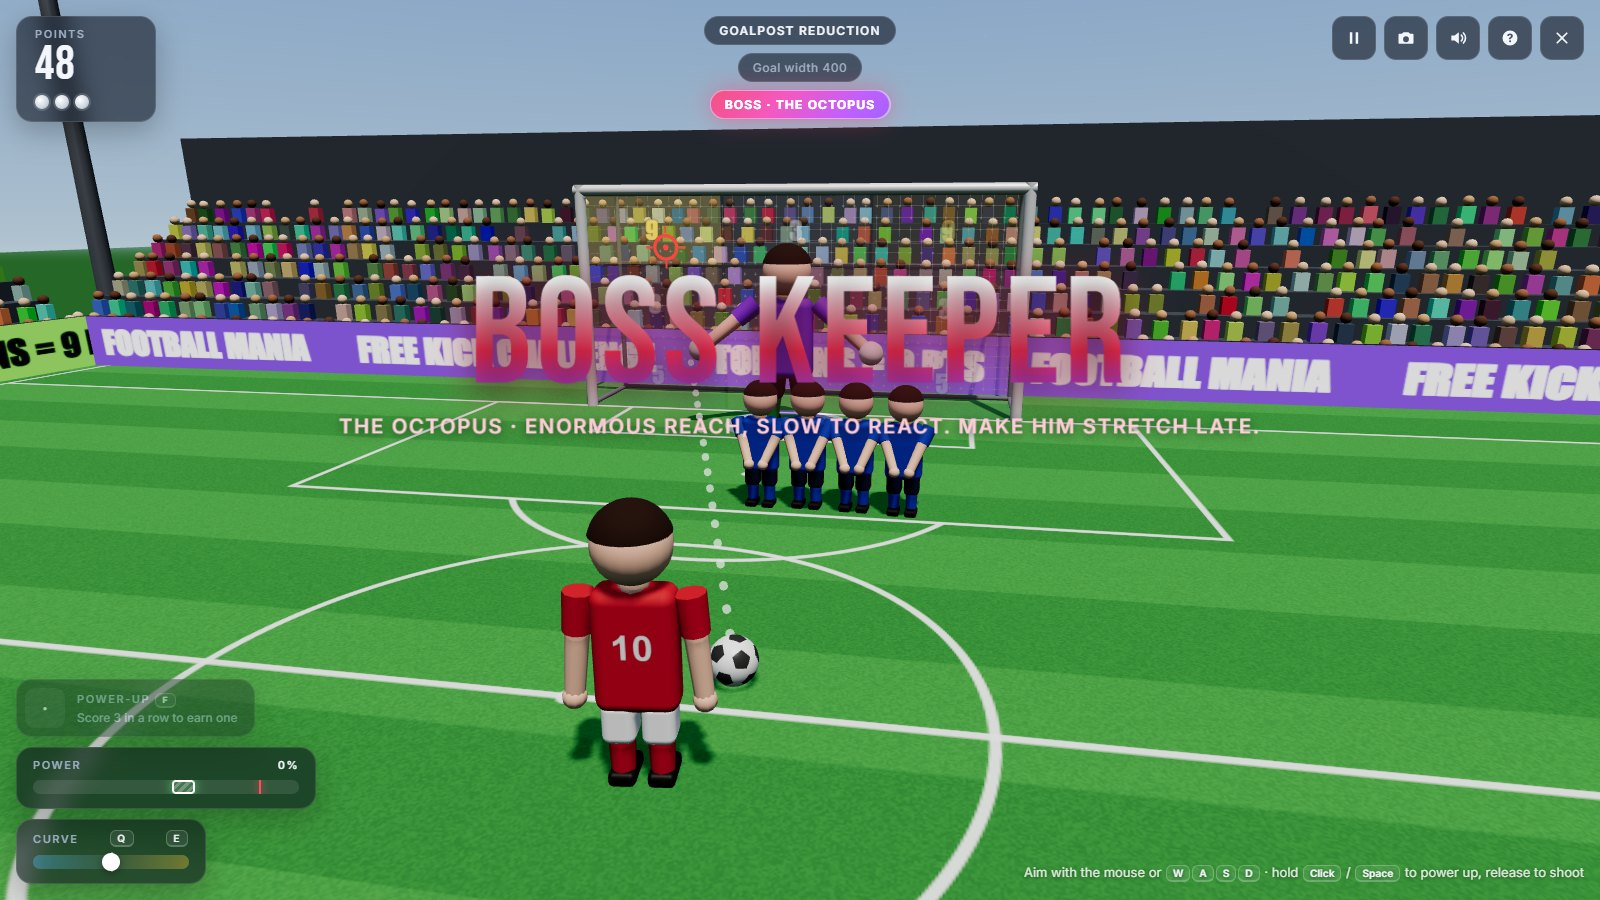
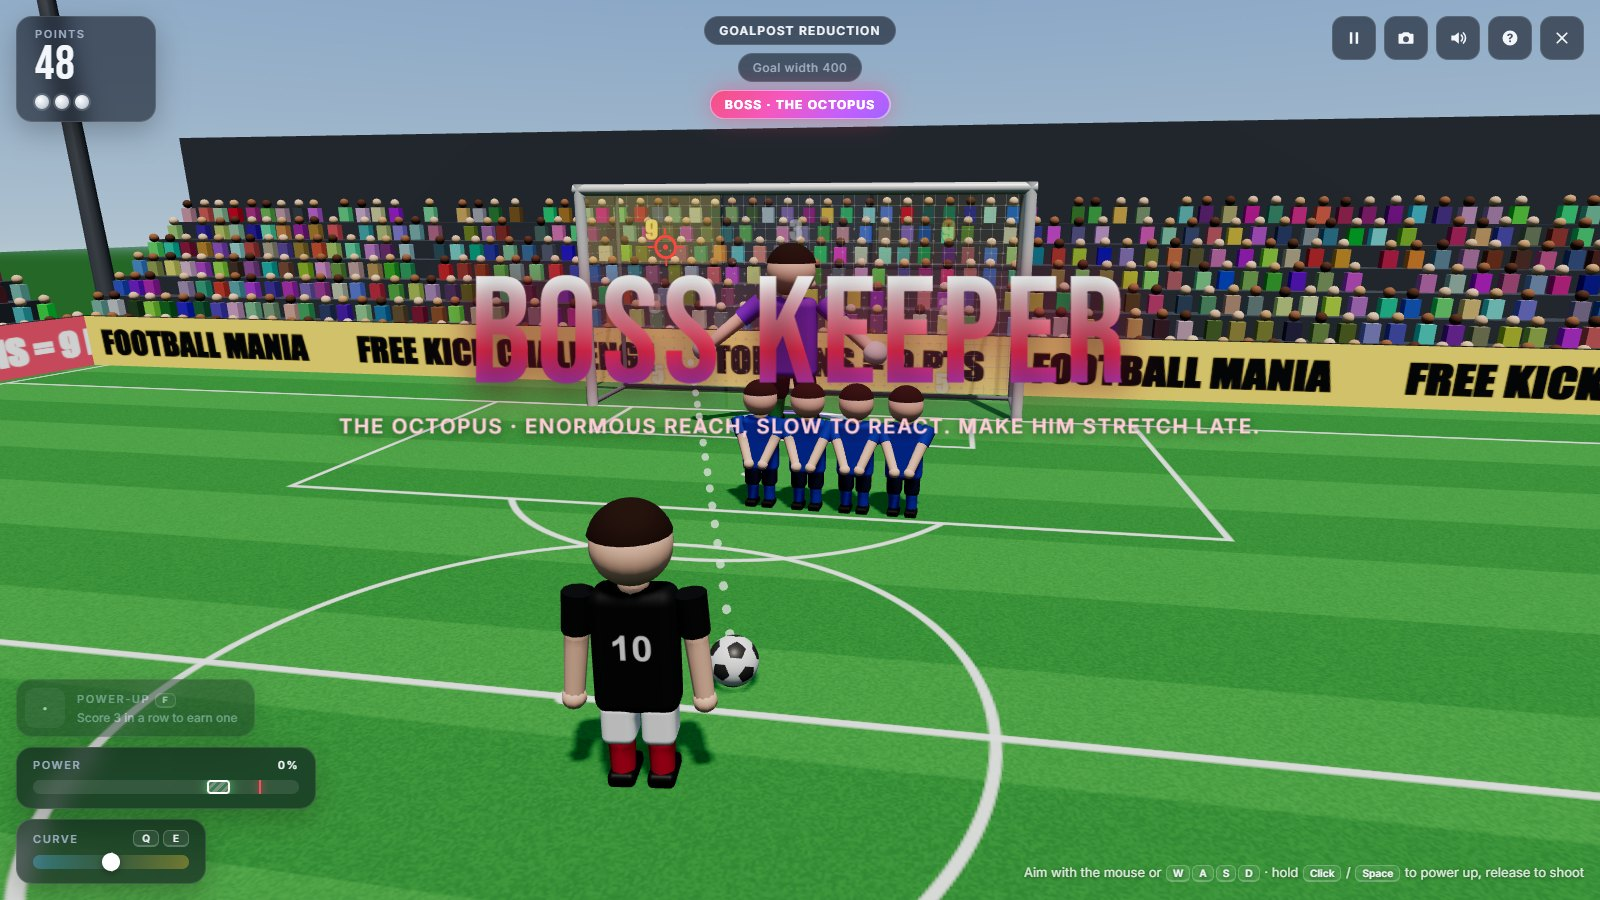
Streamline README and refresh screenshots
- Condense the README into a concise overview: features, scoring,
  controls, install, local setup, technology and structure
- Add a play-now link and a compact screenshot gallery
- Retake screenshots from the current build
- Remove screenshots that are no longer used

diff --git a/README.md b/README.md
@@ -1,114 +1,57 @@
-<h1 align="center">⚽ Football Mania</h1>
+# Football Mania
 
-<p align="center">
-  <b>A 3D free kick game for the browser.</b><br>
-  Bend it round the wall, beat the keeper and pick out the top corners.
-</p>
+A 3D free kick game for the browser, built with Three.js. Bend the ball around the wall, beat the keeper and aim for the top corners.
 
-<p align="center">
-  <img alt="Three.js r160" src="https://img.shields.io/badge/Three.js-r160-000000?logo=threedotjs&logoColor=white">
-  <img alt="JavaScript ES modules" src="https://img.shields.io/badge/JavaScript-ES%20modules-F7DF1E?logo=javascript&logoColor=black">
-  <img alt="WebGL 2" src="https://img.shields.io/badge/WebGL-2-990000?logo=webgl&logoColor=white">
-  <img alt="No build step" src="https://img.shields.io/badge/build-none-brightgreen">
-  <img alt="Zero dependencies" src="https://img.shields.io/badge/dependencies-0-brightgreen">
-  <img alt="Installable PWA" src="https://img.shields.io/badge/PWA-installable-5A0FC8?logo=pwa&logoColor=white">
-</p>
+**[Play now](https://azmarisultana.github.io/Football-Mania/)** · Installable on mobile and desktop · Works offline
 
-<p align="center">
-  <a href="https://azmarisultana.github.io/Football-Mania/"><b>▶ Play now in your browser</b></a>
-  &nbsp;·&nbsp;
-  <a href="#install-on-your-phone">Install on your phone</a>
-</p>
+![Lining up a free kick](docs/screenshots/aiming.jpg)
 
-<p align="center">
-  <img src="docs/screenshots/aiming.jpg" alt="Lining up a free kick: aim marker, trajectory preview, power bar with the Perfect Strike zone, wind and an earned power-up" width="100%">
-</p>
-
----
-
-## Contents
-
-- [Screenshots](#screenshots)
-- [Features](#features)
-- [Quick start](#quick-start)
-- [Install on your phone](#install-on-your-phone)
-- [How to play](#how-to-play)
-- [Controls](#controls)
-- [Technologies](#technologies)
-- [Project structure](#project-structure)
-- [Original Python version](#original-python-version)
-
-## Screenshots
-
-<table>
-  <tr>
-    <td width="50%"><img src="docs/screenshots/goal.jpg" alt="Top-corner goal with confetti, a ×2 streak multiplier and the GOLAZO banner"></td>
-    <td width="50%"><img src="docs/screenshots/replay.jpg" alt="Slow-motion replay filmed from behind the net"></td>
-  </tr>
-  <tr>
-    <td align="center"><sub>Top-corner Perfect Strike on a ×2 streak</sub></td>
-    <td align="center"><sub>Slow-motion replay from behind the net</sub></td>
-  </tr>
-  <tr>
-    <td><img src="docs/screenshots/boss.jpg" alt="Boss keeper The Octopus stepping in"></td>
-    <td><img src="docs/screenshots/night.jpg" alt="Night match under the floodlights in Time Reduction mode"></td>
-  </tr>
-  <tr>
-    <td align="center"><sub>Boss keeper: The Octopus</sub></td>
-    <td align="center"><sub>Under the lights, with the shot clock running</sub></td>
-  </tr>
-  <tr>
-    <td><img src="docs/screenshots/menu.jpg" alt="Main menu over the live stadium"></td>
-    <td><img src="docs/screenshots/trophies.jpg" alt="Trophy room with achievements"></td>
-  </tr>
-  <tr>
-    <td align="center"><sub>Main menu</sub></td>
-    <td align="center"><sub>Trophy room</sub></td>
-  </tr>
-</table>
+| | |
+|:--:|:--:|
+| ![Top-corner goal](docs/screenshots/goal.jpg) | ![Slow-motion replay](docs/screenshots/replay.jpg) |
+| Top-corner goal on a streak | Slow-motion replay |
+| ![Boss keeper](docs/screenshots/boss.jpg) | ![Night match](docs/screenshots/night.jpg) |
+| Boss keeper | Night match under the floodlights |
 
 ## Features
 
-**Shooting**
-- Real ball flight with power, curve and topspin dip.
-- Collisions with the posts, the crossbar, the keeper, the wall and a soft net.
-- A **Perfect Strike** timing zone on the power bar.
+- **Ball physics:** power, curve and topspin, with realistic bounces off the posts, keeper, wall and net.
+- **Opposition:** a keeper that reads your shot and dives, a jumping wall, and four boss keepers with different weaknesses.
+- **Four modes:** Daily Challenge (the same ten kicks for every player each day), Goalkeeper Power, Goalpost Reduction and Time Reduction.
+- **Progression:**
+  - Perfect Strike timing on the power bar.
+  - Streak multipliers and earned power-ups.
+  - Wind that gets stronger as you score.
+  - 12 collectible stickers and 23 achievements.
+- **Presentation:** a full stadium with a reacting crowd, day/night lighting, particle effects, slow-motion replays and synthesised sound.
+- **Controls:** keyboard and mouse, touch, or gamepad.
 
-**Opposition**
-- A keeper that predicts where the ball will be and times its dive.
-- A defensive wall that jumps when you shoot.
-- Four **boss keepers**, each needing a different shot.
+## Scoring
 
-**Modes**
-- **Daily Challenge:** the same ten kicks for every player.
-- **Goalkeeper Power:** the keeper grows after each goal.
-- **Goalpost Reduction:** the goal shrinks after each goal.
-- **Time Reduction:** a shot clock that gets shorter after each goal.
+Top corners score 9 points, bottom corners 5, and anywhere else 3. Goals in a row multiply your points: ×1.5 from the third and ×2 from the fifth. In every mode except the Daily Challenge, three misses end the game.
 
-**Progression**
-- Streak multipliers and earned power-ups.
-- 12 collectible stickers.
-- 23 achievements, one of them secret.
-- Saved best scores and a daily streak.
+## Controls
 
-**Presentation**
-- A full stadium with a crowd that celebrates, floodlights and a day/night cycle.
-- Wind, confetti and sparks, a rippling net, slow-motion replays and camera shake.
-- Sound effects synthesised in real time.
+| Action | Keyboard and mouse | Touch | Gamepad |
+|:--|:--|:--|:--|
+| Aim | Mouse or `W` `A` `S` `D` | Drag | Left stick |
+| Charge and shoot | Hold click or `Space`, release | Hold and release | Hold `RT` / `A` |
+| Curve | `Q` / `E` or mouse wheel | Curve buttons | `LB` / `RB` |
+| Power-up | `F` | Tap the slot | `X` |
+| Camera | Arrow keys, `C` to switch view | Camera button | Right stick, `Y` |
+| Pause | `P` / `Esc` | Pause button | `Start` |
 
-**Controls**
-- Keyboard and mouse, gamepad, or touch.
-- Third-person and first-person cameras.
+## Install
 
-**Installable**
-- Add it to your home screen and it runs full screen like a native app.
-- Works offline after the first visit.
+Open the [game](https://azmarisultana.github.io/Football-Mania/), then:
+- **Android, desktop Chrome or Edge:** select **Install app** on the main menu.
+- **iPhone or iPad:** in Safari, tap **Share**, then **Add to Home Screen**.
 
-## Quick start
+The installed app runs full screen in landscape and works offline.
 
-**Play online:** https://azmarisultana.github.io/Football-Mania/
+## Run locally
 
-**Run it locally:** requires [Node.js](https://nodejs.org/) 18 or newer. There is nothing to install.
+Requires Node.js 18 or newer. There are no dependencies to install.
 
 ```bash
 git clone https://github.com/AzmariSultana/Football-Mania.git
@@ -116,181 +59,28 @@ cd Football-Mania
 npm start
 ```
 
-Open **http://localhost:8080** in a modern desktop browser (Chrome, Edge, Firefox or Safari).
+Then open http://localhost:8080. Any static file server also works; opening `index.html` directly from disk does not, because browsers block ES modules on `file://`.
 
-> [!NOTE]
-> Opening `index.html` straight from disk won't work, because browsers block ES modules on `file://`.
-> Any static server can serve the folder instead, for example `npx serve` or `python -m http.server 8080`.
-> To change the port, set `PORT` (e.g. `PORT=3000 npm start`).
-> Three.js and the fonts load from CDNs, so you need an internet connection on first load.
+## Technology
 
-Every push to `main` deploys to GitHub Pages through [`.github/workflows/pages.yml`](.github/workflows/pages.yml).
+- **Three.js r160 (WebGL 2):** rendering.
+- **JavaScript modules:** the game code, with no framework and no build step.
+- **Web Audio API:** all sound effects, synthesised in code.
+- **Service worker and web app manifest:** installing and offline play.
+- **GitHub Actions:** deploys to GitHub Pages on every push to `main`.
 
-## Install on your phone
-
-Football Mania is a Progressive Web App. Once installed, it opens full screen in landscape from its own home-screen icon and works offline.
-
-| Device | How to install |
-|:--|:--|
-| **Android** (Chrome, Edge, Samsung Internet) | Open the [game](https://azmarisultana.github.io/Football-Mania/) and tap **Install app** on the main menu, or open the browser menu and choose **Install app** / **Add to Home screen**. |
-| **iPhone / iPad** (Safari) | Open the [game](https://azmarisultana.github.io/Football-Mania/), tap **Share**, then **Add to Home Screen**. |
-| **Desktop** (Chrome, Edge) | Click **Install app** on the main menu, or the install icon in the address bar. |
-
-Installed copies update automatically: each deploy gets a new offline cache, picked up the next time the app is opened online.
-
-## How to play
-
-1. Pick a mode.
-2. Aim the red marker at the goal.
-3. Hold the shoot button to charge power and release to shoot.
-
-Score as many points as you can before you run out of misses.
-
-| Zone | Points |
-|:--|:--:|
-| Top corners | **9** |
-| Bottom corners | **5** |
-| Anywhere else | **3** |
-
-### Shooting
-
-| Mechanic | What it does |
-|:--|:--|
-| **Power** | Low power lobs over the wall but gives the keeper time to read it. High power is flat and hard to save. Past the red line on the power bar, your accuracy drops. |
-| **Perfect Strike** | Release inside the striped green band, which moves every kick. The ball goes exactly where you aimed and the keeper reacts later. |
-| **Curve** | Bends the ball around the wall and still lands it on your marker. |
-| **Wind** | Appears from your third goal and gets stronger. It pushes the ball while it's in the air. The arrow in the top right shows its direction. |
-| **Preview** | The dotted line shows the start of the ball's path, with curve and wind included. |
-
-### Game modes
-
-| Mode | Rules |
-|:--|:--|
-| 📅 **Daily Challenge** | Ten fixed kicks generated from today's date, so everyone gets the same spots, wind and bosses. No miss limit. Tracks your daily best and day streak. |
-| 🧤 **Goalkeeper Power** | The keeper grows 8% bigger after every goal. |
-| 🥅 **Goalpost Reduction** | The goal gets narrower after every goal. |
-| ⏱ **Time Reduction** | 30 seconds per kick, 3 seconds less after every goal (minimum 5). Running out of time counts as a miss. |
-
-In every mode except the Daily Challenge, the game ends after **three misses**.
-
-### Streaks and rewards
-
-- **Streak multiplier:** your third goal in a row and onwards scores **×1.5**, and from the fifth it's **×2**. While a multiplier is live, the ball catches fire and the crowd starts chanting.
-- **Power-ups** are earned at 3, 6, 9 and 12 goals in a row, and by beating a boss. You hold one at a time and use it while aiming.
-
-  | Power-up | Effect |
-  |:--|:--|
-  | 🎯 Laser Aim | Shows the full flight path |
-  | 🧊 Ice Keeper | The keeper reacts late and guesses blind |
-  | 🧱 Mini Wall | The wall shrinks for one kick |
-  | 🪙 Golden Ball | Double points if it goes in |
-
-- **Golden stickers:** a star sometimes floats inside the goal. Put the ball through it for +5 points and a new sticker. There are 12 to collect.
-- **Achievements:** 23 to unlock, one of them secret. Find them in the **Trophy Room** with your sticker album.
-- **Replays:** special goals are replayed in slow motion from behind the net. That covers top corners, perfect strikes, bosses, deflections, big curves and streaks.
-
-### Boss keepers
-
-A boss steps in every five goals (and twice in the Daily Challenge) for a single kick. Beating one is worth **+10 points** and a power-up.
-
-| Boss | Twist | How to beat it |
-|:--|:--|:--|
-| 🐙 The Octopus | Enormous reach | Strike early and make him stretch |
-| 🎲 The Gambler | Always dives early to a corner | Keep your nerve and go down the middle |
-| 🏰 The Fortress | A six-man wall | Lob it or bend it around |
-| 🪞 The Mirror | Dives towards the spots you've been aiming at | Do something new |
-
-Best scores, achievements, stickers and the daily streak are saved in your browser.
-
-## Controls
-
-| Action | Keyboard and mouse | Gamepad |
-|:--|:--|:--|
-| Aim | Mouse, or <kbd>W</kbd> <kbd>A</kbd> <kbd>S</kbd> <kbd>D</kbd> | Left stick |
-| Charge and shoot | Hold left click or <kbd>Space</kbd>, release to shoot | Hold <kbd>RT</kbd> or <kbd>A</kbd> |
-| Curve left / right | <kbd>Q</kbd> / <kbd>E</kbd>, or mouse wheel | <kbd>LB</kbd> / <kbd>RB</kbd> |
-| Use power-up | <kbd>F</kbd>, or click the power-up slot | <kbd>X</kbd> |
-| Rotate camera | Arrow keys | Right stick |
-| First / third person | Right click, or <kbd>C</kbd> | <kbd>Y</kbd> |
-| Skip replay | Click, or <kbd>Space</kbd> | <kbd>A</kbd> |
-| Pause / resume | <kbd>P</kbd> or <kbd>Esc</kbd> | <kbd>Start</kbd> |
-| Mute / help | <kbd>M</kbd> / <kbd>H</kbd> | |
-
-**Touch:** press and drag to aim while charging, then lift your finger to shoot. Tap the ◀ ▶ buttons on the curve meter to curve, and tap the power-up slot to use it.
-
-## Technologies
-
-| | |
-|:--|:--|
-| **[Three.js](https://threejs.org/) r160** | WebGL 2 rendering with soft shadows, ACES tone mapping, instanced crowds and GPU particles |
-| **JavaScript (ES modules)** | No framework and no bundler. Three.js is loaded through an import map. |
-| **Web Audio API** | Every sound effect and the crowd ambience are synthesised in code, so there are no audio files |
-| **HTML and CSS** | HUD and menus layered over the canvas, with a responsive layout and support for reduced motion |
-| **Gamepad API, localStorage** | Controller support and saved progress |
-| **PWA (Web App Manifest, Service Worker)** | Installable to the home screen, full screen in landscape, playable offline |
-| **GitHub Actions + Pages** | Automatic deployment on every push to `main` |
-| **Node.js** | A tiny dependency-free static server for local play |
-
-All 3D models, textures and sounds are generated in code. The only binary files in the repository are the app icons and the README screenshots.
-
-<details>
-<summary><b>Under the hood</b></summary>
-
-- **Physics:** fixed 240 Hz steps, with sphere-vs-capsule collisions against the posts and crossbar, the keeper's limbs and the wall. The net absorbs the ball.
-- **Shot solver:** computes the launch velocity that lands the ball on the marker after curve and topspin are applied.
-- **Keeper AI:** predicts where the ball will cross his own position and solves the step, jump and dive angle so his gloves reach that point. A reaction delay and read chance keep it fair.
-- **Daily Challenge:** a seeded random generator (mulberry32) keyed to the date and kick number.
-- **Replays:** fixed-rate transform recording into a preallocated buffer, played back with interpolation.
-- **Performance:** resolution adapts to the frame rate, and the crowd and particles are drawn in batches. Hot paths avoid allocating memory every frame.
-
-</details>
+All models, textures and sounds are generated in code.
 
 ## Project structure
 
 ```
-├── index.html            page shell, HUD and menus
-├── manifest.json         app manifest (name, icons, full screen, landscape)
-├── sw.js                 service worker for offline play
-├── icons/                app and home-screen icons
-├── css/
-│   ├── style.css         base UI styling
-│   └── features.css      streaks, bosses, power-ups, replays, trophy room
-├── src/
-│   ├── main.js           renderer setup and main loop
-│   ├── pwa.js            service worker registration and install button
-│   ├── game.js           game state machine, shooting, scoring, modes and rewards
-│   ├── config.js         gameplay constants
-│   ├── physics.js        shot trajectory and collisions
-│   ├── camera.js         third-person, first-person, replay and menu cameras
-│   ├── input.js          keyboard, pointer and gamepad
-│   ├── ui.js             HUD, menus, toasts and trophy room
-│   ├── audio.js          synthesised sound effects
-│   ├── rng.js            seedable random numbers for the Daily Challenge
-│   ├── progress.js       saved bests, achievements, stickers and daily streak
-│   ├── features/         boss keepers, power-ups, replay recorder
-│   ├── fx/               GPU particles
-│   ├── world/            stadium, goal and net, collectibles
-│   └── entities/         ball, keeper, kicker, wall, shared player model
-├── docs/screenshots/     README images (also used by the install dialog)
-├── .github/workflows/    GitHub Pages deployment
-├── server.js             static server used by `npm start`
-├── package.json
-└── football_mania.py     original Python/OpenGL version
+index.html        page, HUD and menus
+css/              styles
+src/              game code (entry point: main.js)
+sw.js             service worker
+manifest.json     app manifest
+icons/            app icons
+server.js         local static server
 ```
 
-## Original Python version
-
-Football Mania began as a PyOpenGL/GLUT project. [`football_mania.py`](football_mania.py) is the original game; `Hello_openGL.py` and `Lets_draw_sth.py` are OpenGL practice scripts.
-
-```bash
-pip install PyOpenGL PyOpenGL_accelerate
-python football_mania.py
-```
-
-The web version keeps the original's rules and numbers: goal and keeper sizes, the three modes, zone scoring and three misses. It also fixes several issues from the original:
-- The keeper's dive now moves its collision area with it (before, the dive had no effect).
-- Ball speed no longer depends on the frame rate.
-- Shots curve and dip instead of flying in a straight line.
-- The crowd no longer jitters.
-- The Time Reduction shot clock now follows its documented rules.
-- Wall players stand shoulder to shoulder.
+The game began as a Python/OpenGL project; the original is kept in [`football_mania.py`](football_mania.py).
